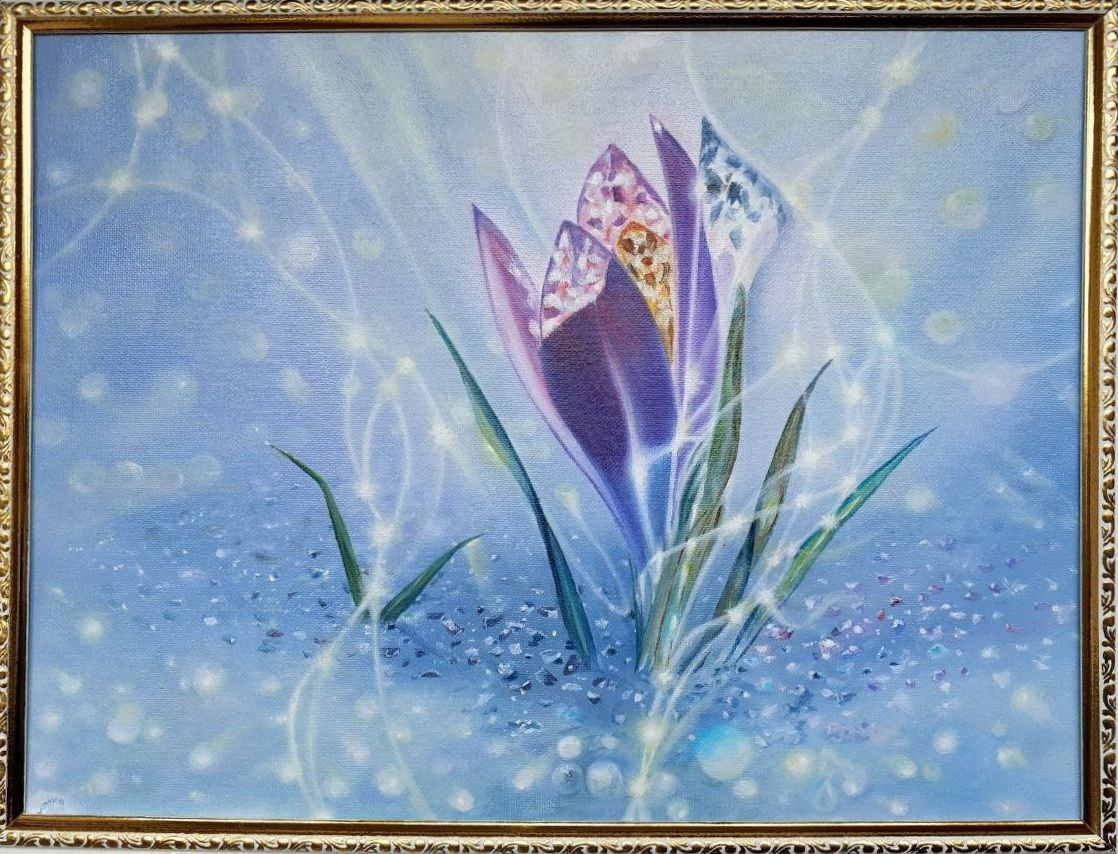
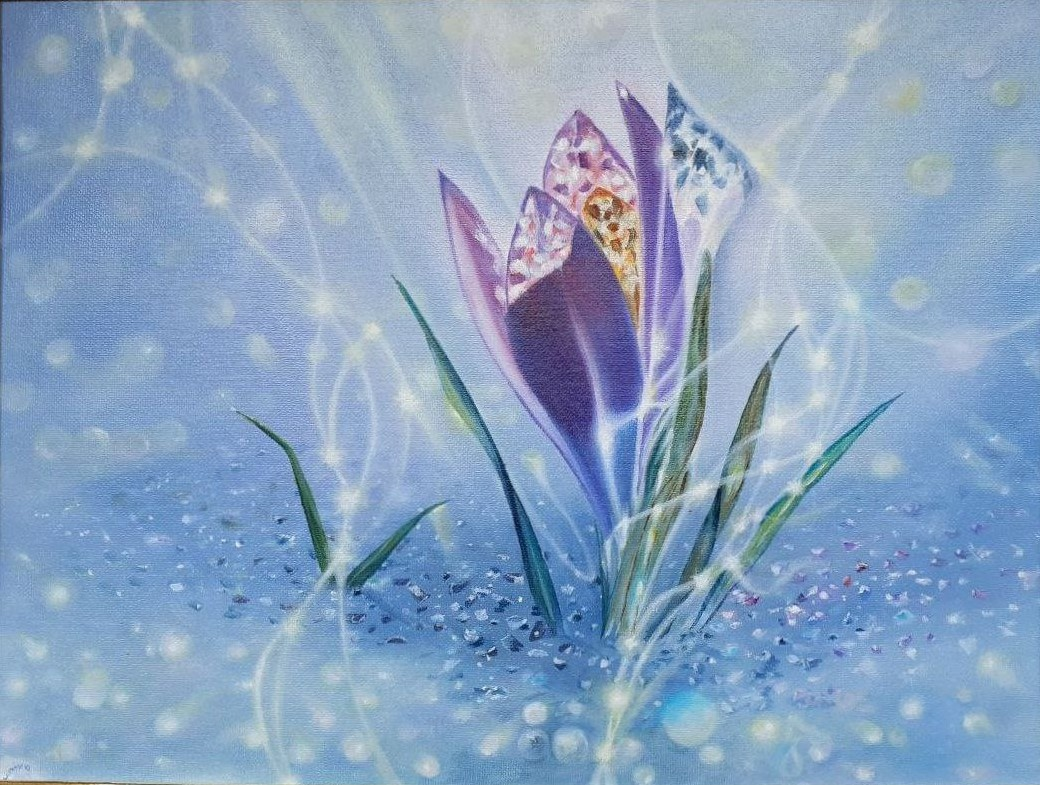
Add 3rd row to flowers page

diff --git a/landscapes.html b/landscapes.html
@@ -17,7 +17,7 @@
     <header>
 
         <div id="logo-bg">
-            <h1 id="logo">Landscape Album</h1>
+            <h1 id="logo">Landscapes Album</h1>
             <h2 id="motto">Sweet pictures to feast your eyes :)</h2>
         </div>
 
@@ -66,7 +66,7 @@
         <div class="album">
             <img src="assets/images/rocks.jpg" alt="Painting of Rocks and the blue sea">
             <h3>Rocks</h3>
-            <p>Oil on laminate, size 18x19cm. 2021.</p>
+            <p>Oil on laminate, size 18x19cm. 2021. By Tatyana Bukreeva's masterclass.</p>
 
             <hr>
         </div>
@@ -168,13 +168,13 @@
         <div class="album">
             <img src="assets/images/lavender.jpg" alt="Lavender field and a country house">
             <h3>The Lavender</h3>
-            <p>Oil, canvas on cardboard, size 10x15cm. 2021.</p>
+            <p>Oil, canvas on cardboard, size 10x15cm. 2021. By Katya Fedorova's masterclass. </p>
             <hr>
         </div>
         <div class="album">
             <img src="assets/images/eyeof-light.jpg" alt="Abstract painting of the sailboat in the sunset">
             <h3>The Eye of Light</h3>
-            <p>Oil on canvas, size 25x35cm. 2022.</p>
+            <p>Oil on canvas, size 25x35cm. 2022. By Olga Bazanova's masterclass.</p>
             <hr>
         </div>
     </section><br>
@@ -185,20 +185,20 @@
         <div class="album">
             <img src="assets/images/yaht.jpg" alt="Yaht at dawn, the calm sea">
             <h3>The Yaht at Dawn</h3>
-            <p>Oil on canvas, size 40x50cm. 2021.</p>
+            <p>Oil on canvas, size 40x50cm. 2021. By Olga Bazanova's masterclass.</p>
             <hr>
         </div>
 
         <div class="album">
             <img src="assets/images/domik.jpg" alt="A small house in the middle of the lake">
             <h3> A Little House</h3>
-            <p>Oil on canvas, size 20x30cm. 2020.</p>
+            <p>Oil on canvas, size 20x30cm. 2020. By Olga Bazanova's masterclass.</p>
             <hr>
         </div>
         <div class="album">
             <img src="assets/images/sail.jpg" alt="A sailboat at dawn">
             <h3>The Sail</h3>
-            <p>Oil, canvas on cardboard, size 10x15cm. 2021.</p>
+            <p>Oil, canvas on cardboard, size 10x15cm. 2021. By Olga Bazanova's masterclass.</p>
             <hr>
         </div>
     </section><br>
@@ -217,7 +217,7 @@
         <div class="album">
             <img src="assets/images/poppy-sunset.jpg" alt="Poppies at sunset near the sea">
             <h3>Poppies at sunset</h3>
-            <p>Oil, canvas on cardboard, size 30x40cm. 2021.</p>
+            <p>Oil, canvas on cardboard, size 30x40cm. 2021. By Olga Bazanova's masterclass.</p>
             <hr>
         </div>
 
@@ -242,14 +242,14 @@
         <div class="album">
             <img src="assets/images/kinkade-big.jpg" alt="A little house in the forest by Thomas Kinkade">
             <h3>A little house in the forest </h3>
-            <p>Oil paint on canvas, size 35x45cm. 2021.Copy of Thomas Kinkade's picture</p>
+            <p>Oil paint on canvas, size 35x45cm. 2021.Copy of Thomas Kinkade's picture. By Olga Bazanova's masterclass.</p>
             <hr>
         </div>
 
         <div class="album">
             <img src=" assets/images/kinkade-jr.jpg" alt="A little house in the forest by Thomas Kinkade">
             <h3>A little house in the forest </h3>
-            <p>Oil paint on canvas, size 20x30cm. 2021.Copy of Thomas Kinkade's picture</p>
+            <p>Oil paint on canvas, size 20x30cm. 2021.Copy of Thomas Kinkade's picture. By Olga Bazanova's masterclass.</p>
             <hr>
         </div>
     </section><br>
@@ -274,7 +274,7 @@
         <div class="album">
             <img src="assets/images/cliff.jpg" alt="The Cliff and the sea">
             <h3> The Cliff</h3>
-            <p>Oil, canvas on cardboard, size 10x15cm. 2021.</p>
+            <p>Oil, canvas on cardboard, size 10x15cm. 2021. </p>
             <hr>
         </div>
 

diff --git a/flowers.html b/flowers.html
@@ -17,7 +17,7 @@
     <header>
 
         <div id="logo-bg">
-            <h1 id="logo">Landscape Album</h1>
+            <h1 id="logo">Flowers Album</h1>
             <h2 id="motto">Sweet pictures to feast your eyes :)</h2>
         </div>
 
@@ -66,7 +66,7 @@
         <div class="album">
             <img src="assets/images/poppy-sunset.jpg" alt="Poppies at sunset near the sea">
             <h3>Poppies at sunset</h3>
-            <p>Oil, canvas on cardboard, size 30x40cm. 2021.</p>
+            <p>Oil, canvas on cardboard, size 30x40cm. 2021.  By Olga Bazanova's masterclass.</p>
             <hr>
         </div>
     </section><br>
@@ -77,8 +77,8 @@
 
         <div class="album">
             <img src="assets/images/buket.jpg" alt="A Bunch of field flowers, a book and apricots">
-            <h3>Bouquet</h3>
-            <p>Oil, canvas on cardboard, 35x45cm. 2020.</p>
+            <h3>The summer bouquet</h3>
+            <p>Oil, canvas on cardboard, 35x45cm. 2020. By Olga Bazanova's masterclass.</p>
             <hr>
         </div>
 
@@ -90,8 +90,8 @@
         </div>
 
         <div class="album">
-            <img src="assets/images/poppy-lite.jpg" alt="Poppies near the sea">
-            <h3>Poppies.</h3>
+            <img src="assets/images/poppy-lite.jpg" alt="Poppies near the blue sea">
+            <h3>Poppies</h3>
             <p>Oil on canvas, 30x30cm. 2021.</p>
             <hr>
         </div>
@@ -101,23 +101,23 @@
 
 
     <section> 
-    <div class="album">
-        <img src="assets/images/moon-mice.jpg" alt="Funny picture where mice  fly on brooms to the Cheese Moon">
-        <h3>The Cheese Moon</h3>
-        <p>Oil on canvas, size 30x40cm. 2021.</p>
-        <hr>
-    </div>
+        <div class="album">
+            <img src="assets/images/basket-lavender.jpg" alt="The basket with lavender">
+            <h3>The basket with lavender.</h3>
+            <p>Oil, canvas on cardboard, 10x15cm. 2021. By Vugar Mamedov's masterclass.  </p>
+            <hr>
+        </div>
 
     <div class="album">
-        <img src="assets/images/moon-mice2.jpg" alt="Fragment of painting The Cheese Moon.">
-        <h3>Fragment of The Cheese Moon</h3>
-        <p> Oil on canvas, size 30x40cm. 2021.</p>
+        <img src="assets/images/crocus.jpg" alt="The crocus. A very nice picture in blue colors">
+        <h3>The crocus</h3>
+        <p> Oil on canvas, size 30x40cm. 2021. By Alexandr Maranov's masterclass.</p>
         <hr>
     </div>
     <div class="album">
-        <img src="assets/images/returning.jpg" alt="Grey kitty">
-        <h3>The Return</h3>
-        <p>Oil, canvas on cardboard, size 30x40cm. 1981.</p>
+        <img src="assets/images/daffodil.jpg" alt="Daffodils in the glass vase">
+        <h3>Daffodils</h3>
+        <p>Oil, canvas on cardboard, size 25x30cm. 2022.</p>
         <hr>
     </div>
     </section><br>
@@ -125,9 +125,10 @@
 <div class="text-center">
     <p>That is all so far. 😉 </p><br>
 
-    <a href="landscapes.html" aria-label="Go to the top of the page Landscapes Album"> Back to the Top of the page ⬆</a>
+    <a href="flowers.html" aria-label="Go to the top of the page Flowers Album"> Back to the Top of the page ⬆</a>
 </div>
-    <!--  Footer the same as on the main page -->
+
+ <!--  Footer the same as on the main page -->
 
     <footer class="clear contacts" id="footer">
         <div class="text-center">

diff --git a/animals.html b/animals.html
@@ -182,7 +182,7 @@
         <div class="album">
             <img src="assets/images/tigercub.jpg" alt="Tigercub">
             <h3>Tigercub</h3>
-            <p>Oil paint on canvas, size 20x20cm. 2021.</p>
+            <p>Oil paint on canvas, size 20x20cm. 2021. Juniva's copy of image from the Internet. Author is unknown.</p>
              
             <hr>
         </div>
@@ -240,7 +240,7 @@
         <div class="album">
             <img src="assets/images/ulibaka.jpg" alt="Smiling cat">
             <h3> Smiling cat</h3>
-            <p>Oil paint, canvas on cardboard, size 10x15cm. 2021.</p>
+            <p>Oil paint, canvas on cardboard, size 10x15cm. 2021. Juniva's copy of image from the Internet. Author is unknown.</p>
             <hr>
         </div>
         <div class="album">
@@ -276,7 +276,7 @@
 <div class="text-center">
     <p>That is all so far. 😉 </p><br>
 
-    <a href="animals.html" aria-label="Go to the top of the page Landscapes Album"> Back to the Top of the page ⬆</a>
+    <a href="animals.html" aria-label="Go to the top of the page Animals Album"> Back to the Top of the page ⬆</a>
 </div>
 
 

diff --git a/index.html b/index.html
@@ -194,7 +194,7 @@
 <div class="text-center">
     <p>That is all so far. 😉 </p><br>
 
-    <a href="index.html" aria-label="Go to the top of the page Landscapes Album"> Back to the Top of the page ⬆</a>
+    <a href="index.html" aria-label="Go to the top of the home page "> Back to the Top of the page ⬆</a>
 </div>
 
     <!--  Footer on main page -->
